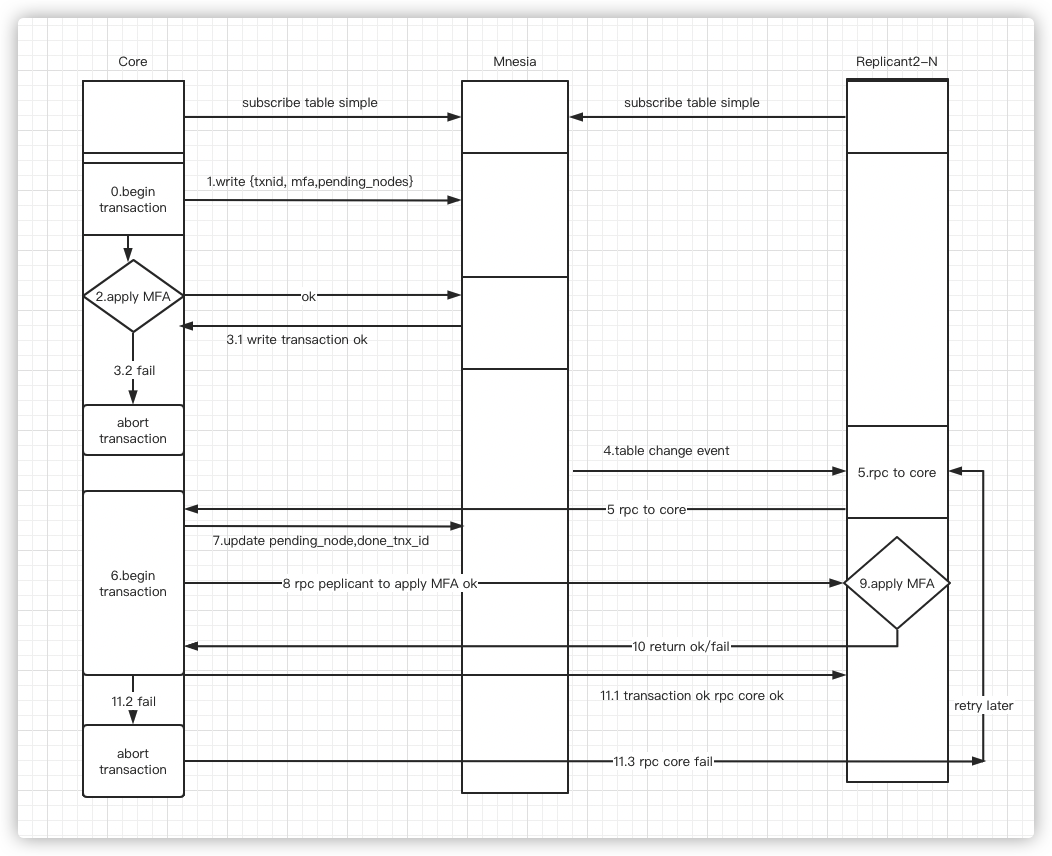
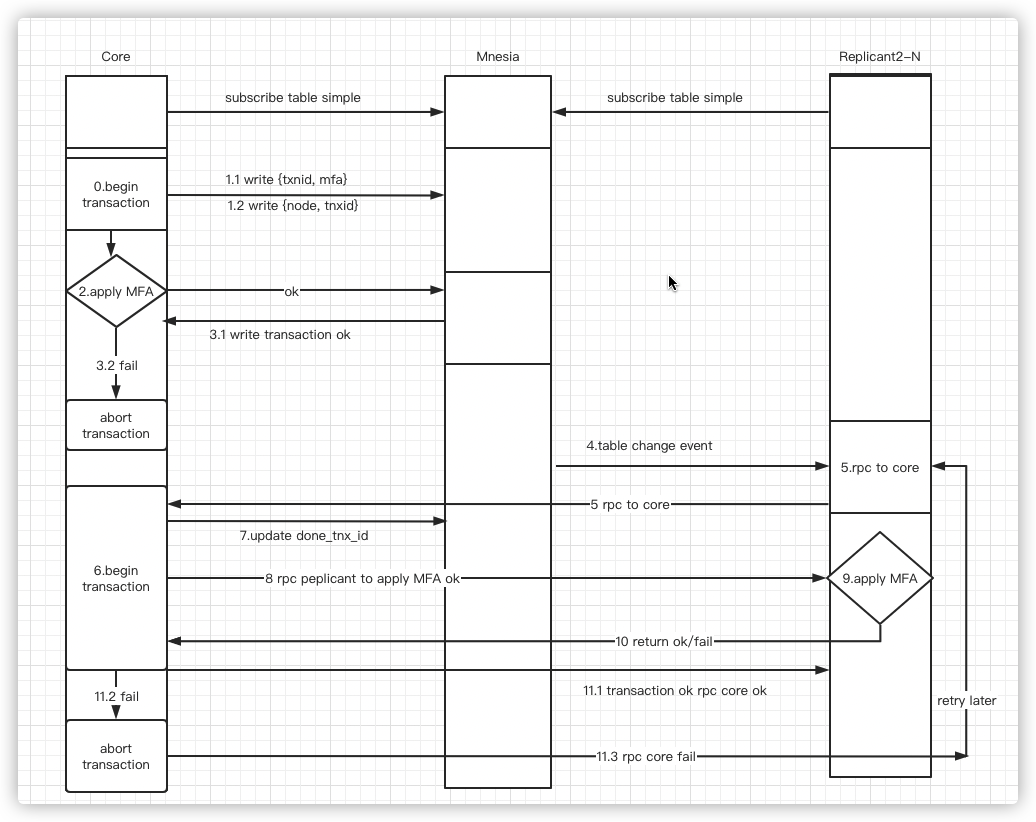
update according review

diff --git a/active/0012-cluster-call.md b/active/0012-cluster-call.md
@@ -6,7 +6,9 @@
 
 ## Abstract
 
-When EMQX updates the cluster resources via HTTP, it first updates the local node resources, and then updates all other nodes via RPC Multi Call to ensure the consistency of resources (configuration)  in the cluster, **it must be ensure that resources are updated successfully in the cluster, otherwise all are not updated**.
+When EMQX updates the cluster resources via HTTP API,  it first updates the local node resources, and then updates all other nodes via RPC Multi Call to ensure the consistency of resources (configuration)  in the cluster.
+
+**In order to ensure consistency, it must ensure that the updates will be be eventually applied on all nodes in the cluster**.
 
 ## Motivation
 
@@ -14,10 +16,10 @@ The current solution is to update the resources of the local node successfully, 
 
 Update resources may be lost during the RPC call.
 
-- If there is a network flash break during RPC, it may cause the RPC failed.
-- If a remote operation to update a resource fails for external reasons (network temporarily unavailable), there is no retry process, causing the inconsistent data in the cluster.
-- If multiple updates are performed simultaneously, it may happen that node 1 performs updates in order 1, 2, 3, but node 2 updates in order 1, 3, 2. There is no order guarantee.
-- If the updateing node goes offline or crashes, the updated resource information is lost after the node restarts.
+- If there is a network disturbance during RPC, it may cause the RPC to fail.
+- If a remote operation to update a resource fails, there is no retry or any other remedy, causing inconsistent configuration in the cluster.
+- If multiple updates are performed concurrently, it may happen that node 1 performs updates in order 1, 2, 3, but node 2 updates in order 1, 3, 2. There is no order guarantee.
+- Lack of replay. If a node is down for a while, there is a lack of history event replay to catch up with the changes happened during the down time.
 
 ## Design
 
@@ -28,7 +30,7 @@ This proposal is not applicable to high frequency request calls, all updates are
 ### mnesia table structure
 
 ```erlang
--record(cluster_rpc, {tnx_id :: pos_integer(), mfa :: mfa(), pending_nodes = [] :: [node()]}).
+-record(cluster_rpc, {tnx_id :: pos_integer(), mfa :: mfa()}).
 -record(cluster_tnx_id, {node :: node(), tnx_id :: intger()}).
 
 mnesia(boot) ->
@@ -56,40 +58,37 @@ mnesia(boot) ->
 2. The first transaction must be executed in the `emqx_cluster_trans` process on the core node. if this transaction succeeds, the call returns success directly, if the transaction fails, the call aborts with failure.
 
 ```erlang
-execute() ->
     Node = node(),
-    %% make sure node's local mfa all finished. do the same as the handle_table_event below.
-     case apply_self_unfinished_mfa_trans(Node) of
-          {error, Reason} -> {error, Reason}
-          ok -> ok   
+    case apply_self_unfinished_mfa_trans(Node) of
+        {error, Reason} -> {error, Reason};
+        ok ->
             Trans = fun() ->
                 mnesia:write_lock_table(emqx_cluster_rpc),
                 mnesia:write_lock_table(emqx_cluster_tnx_id),
                 FinishId = get_finished_tnx_id(Node),
                 LatestId = get_latest_tnx_id(),
-                %% make sure node's local mfa all finished.
+                %% make sure node's local mfa all finished again.
                 case apply_self_unfinished_mfa(FinishId, LatestId, Node) of
                     {error, Reason} -> mnesia:abort({error, Reason});
                     ok ->
                         TnxId = incr_tnx_id(),
-                        PendingNodes = ekka:nodelist(),
-                        %% check new node join but execute none transaction yet.
+                        mnesia:write(#cluster_rpc{tnx_id = TnxId, mfa = MFA}),
+                        %% check new node join in but execute none transaction yet.
                         [begin
                              case mnesia:read(emqx_cluster_tnx_id, N) of
-                                 [] -> mnesia:write(#cluster_tnx_id{node = N, tnx_id = TnxId});
+                                 [] -> mnesia:write(#cluster_tnx_id{node = N, tnx_id = TnxId - 1});
                                  _ -> ok
                              end
-                         end || N <- PendingNodes],
-                        Rec = #cluster_rpc{tnx_id = TnxId, mfa = MFA, pending_nodes = PendingNodes},
-                        mnesia:write(Rec),
+                         end || N <- ekka:nodelist()],
+                        mnesia:write(#cluster_tnx_id{node = Node, tnx_id = TnxId}),
                         case apply_mfa(Node, MFA) of
                             ok -> ok;
                             {error, Reason} -> mnesia:abort({error, Reason})
                         end
                 end
                     end,
-                ekka_mnesia:transaction(?COMMON_SHARD, Trans)
-      end.
+            ekka_mnesia:transaction(?COMMON_SHARD, Trans)
+    end.
 ```
 
 - In order to keep the transactions in strong order, the previous uncompleted transactions should be executed in advance. The reason for not merging this behavior into the main transaction is to ensure that if the main transaction abort, don't need to abort those unfinished MFA transactions.
@@ -97,56 +96,50 @@ execute() ->
   **Risk point**: If the previous unfinished MFA in the main transaction is executed successfully, but the latest MFA fails and leads to abort,  it will roll back the previous unfinished MFA as well, thus causing the MFA to be executed again later. So MFA must be idempotent.
 - Generate the incremental `tnx_id`, alway striktly +1.
 
-- Set up the pending_node and check if all nodes have `tnx_id`, if not, it means a new node join in, set current tnx_id as the  tnx_id of the new node.
+- Check if all nodes have `tnx_id`, if not, it means a new node join in, set current tnx_id as the  tnx_id of the new node.
+- update the current node's tnx_id to current_id.
 - Execute MFA successfully then return.
 - Abort this transaction, If MFA fails.
 
 3. All `emqx_cluster_trans` receive table change event, then execute later transaction in this process, find the latest TnxID of this node which was executed successfully, and recursively execute transactions from this ID to the newest transaction ID.
 
    ```erlang
-     handle_table_event() ->
-         Trans = fun() ->
+   %% as same as apply_self_unfinished_mfa_trans(Node).
+   handle_table_event(Node) ->
+       Trans = fun() ->
+           mnesia:write_lock_table(emqx_cluster_rpc),
+           mnesia:write_lock_table(emqx_cluster_tnx_id),
            #cluster_tnx_id{tnx_id = LastDoneId} = mnesia:read(emqx_cluster_tnx_id, Node),
+           #cluster_tnx_id{tnx_id = LatestId} = mnesia:read(emqx_cluster_tnx_id, 'latest-tnx-id'),
            CurrId = LastDoneId + 1,
-           case TnxId < CurrId of
+           case LatestId =< CurrId of
                false -> done;
                true ->
-                   Rec = mnesia:read(emqx_cluster_rpc, CurrId),
-                   #cluster_rpc{mfa = MFA, pending_nodes = Nodes} = Rec,
-                   case lists:member(Node, Nodes) of
-                       true ->
-                           NewPending = lists:delete(Node, Nodes),
-                           case NewPending of
-                               [] -> mnesia:delete_object(Rec);
-                               _ ->
-                                   NewRec = Rec#cluster_rpc{pending_nodes = NewPending},
-                                   ok = mnesia:write(NewRec);
-                           end,
-                           mnesia:write(#cluster_tnx_id{node = Node, tnx_id = CurrId}),
-                           case apply_mfa(Node, MFA) of
-                               ok -> ok;
-                               {error, Reason} -> mnesia:abort({error, Reason})
-                           end;
-                       false ->
-                           ok
+                   #cluster_rpc{mfa = MFA} = mnesia:read(emqx_cluster_rpc, CurrId),
+                   mnesia:write(#cluster_tnx_id{node = Node, tnx_id = CurrId}),
+                   delete_mfa_record_if_all_node_tnx_id_greater_than_lastdone_id(),
+                   case apply_mfa(Node, MFA) of
+                       ok -> ok;
+                       {error, Reason} -> mnesia:abort({error, Reason})
                    end
-           end
-               end,
+           end end,
        Res = ekka_mnesia:transaction(?COMMON_SHARD, Trans),
        case Res of
-           {atomic, ok} -> hanle_table_event(TnxId, Node);
+           {atomic, ok} -> handle_table_event(Node);
            {atomic, done} -> ok;
-           _ -> retry_later_on_origin_node(TnxId, Node)
+           _ -> retry_later_on_origin_node(Node)
        end.
    ```
 
-   - Delete this node from the pending_node, if the pending_node is empty, then delete this record.
+   - Delete mfa record if all nodes tnx_id greater than LastdoneId.
 
    - Update tnx_id in `cluster_tnx_id` to the current tnx_id.
    - Return if execution MFA succeeds.
    - Abort this transaction if the execution of MFA fails.
 
 If there is a failure in those transaction group, the transaction aborts and is re-executed from this failed transaction after a certain period of time.
+
+All transaction function should be MFA, not anonymous function.
 
 ### API Design
 
